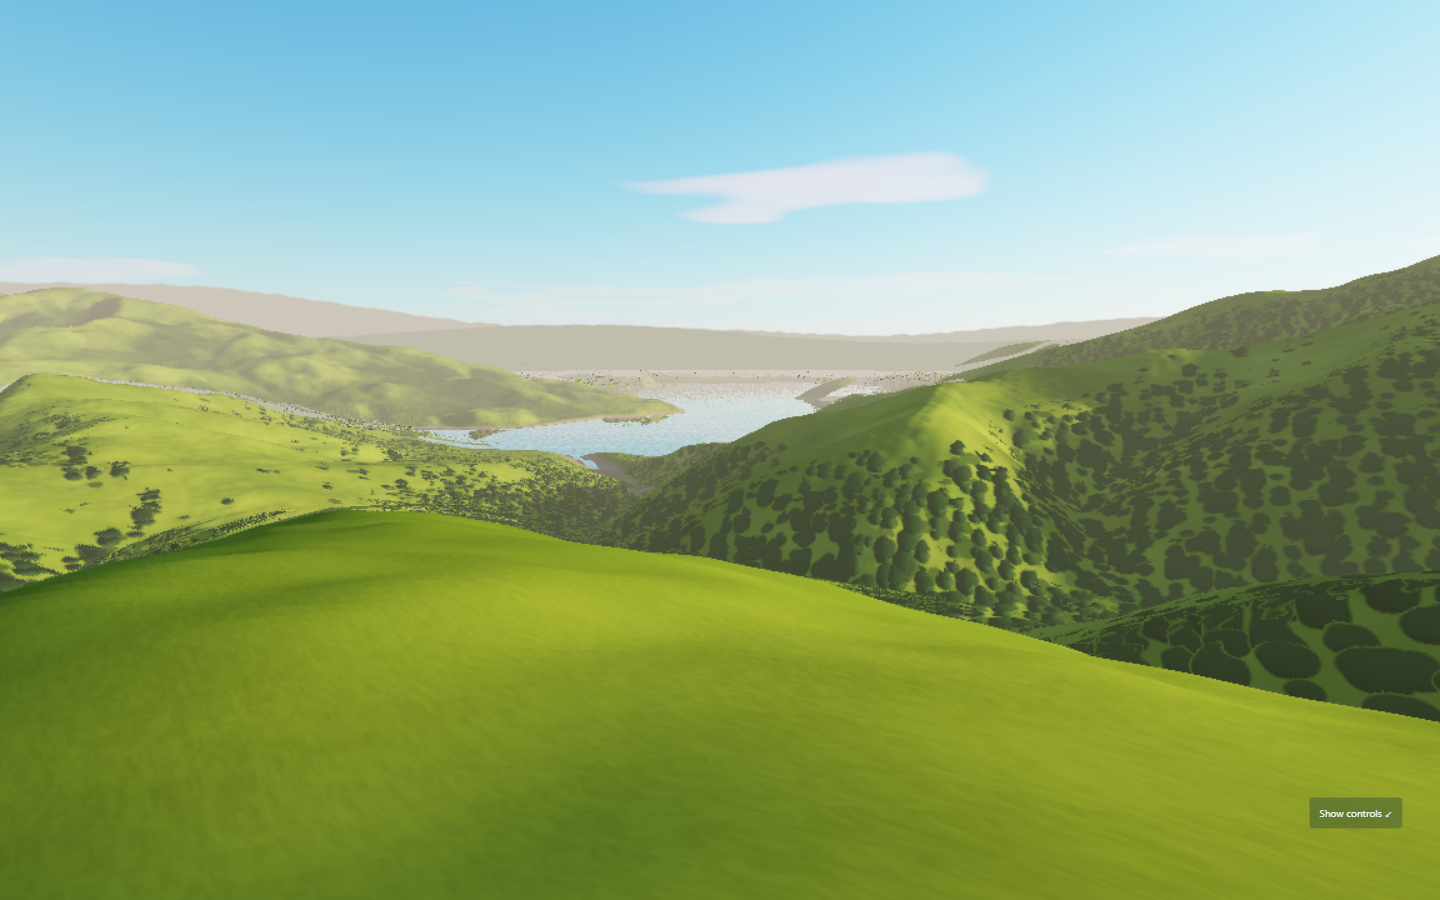
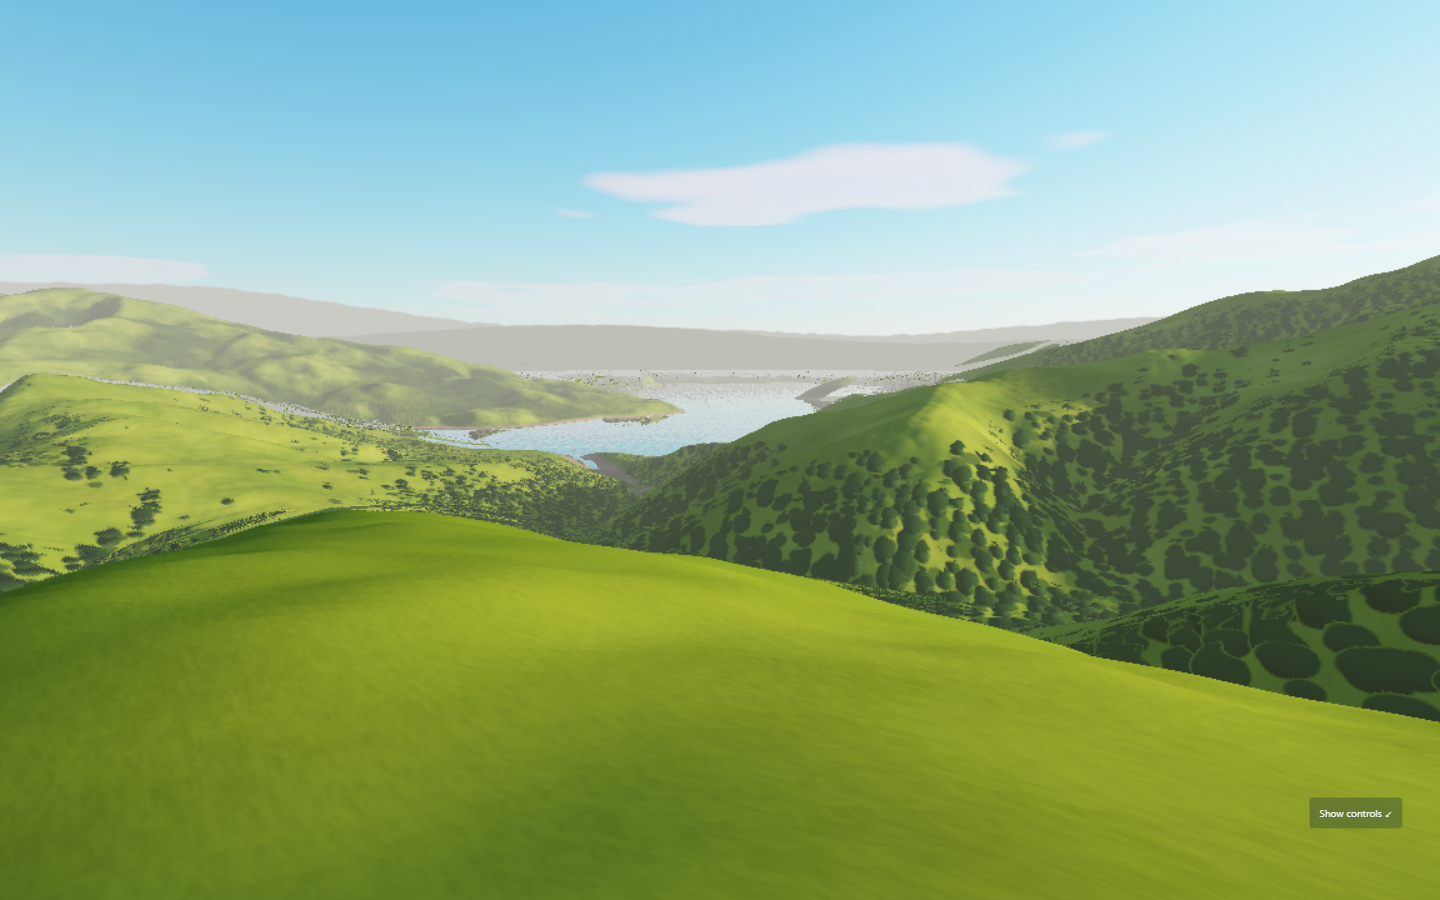
Pick the light: presets on the explore page and in the journey's live view

Changed region(s): [[0.5312, 0.1556, 0.7188, 0.2489], [0.4062, 0.1867, 0.5312, 0.2489]]

diff --git a/site/journey.js b/site/journey.js
@@ -104,12 +104,14 @@ function enterLive() {
   frame.src =
     `./renderer/explore.html?reservoir=${encodeURIComponent(stop.id)}&embed=1&pose=` +
     [pose.x, pose.y, pose.z, pose.yaw, pose.pitch].map((v) => v.toFixed(3)).join(",") +
-    (forcedQuality ? `&quality=${encodeURIComponent(forcedQuality)}` : "");
+    (forcedQuality ? `&quality=${encodeURIComponent(forcedQuality)}` : "") +
+    `&preset=${encodeURIComponent($("livePreset").value)}`;
   state.live = { id: stop.id, pose, frameTimes: [], firstFrame: false };
   $("stage").append(frame);
   video.pause();
   $("explore").textContent = "Back to video";
   $("slowNotice").hidden = true;
+  $("livePreset").hidden = false;
 }
 
 function leaveLive() {
@@ -118,6 +120,7 @@ function leaveLive() {
   state.live = null;
   $("stage").classList.remove("live");
   $("slowNotice").hidden = true;
+  $("livePreset").hidden = true;
   $("explore").textContent = "Explore in 3D";
   $("flyover").play().catch(() => {});
 }
@@ -163,6 +166,12 @@ $("prev").onclick = () => show(state.index - 1);
 $("next").onclick = () => show(state.index + 1);
 $("explore").onclick = () => (state.live ? leaveLive() : enterLive());
 $("slowBack").onclick = leaveLive;
+$("livePreset").value = new URLSearchParams(location.search).get("preset") || "golden";
+$("livePreset").onchange = () =>
+  $("liveFrame")?.contentWindow.postMessage(
+    { type: "waterscape:preset", name: $("livePreset").value },
+    location.origin,
+  );
 addEventListener("keydown", (e) => {
   if (e.key === "ArrowRight" || e.key === "PageDown") show(state.index + 1);
   if (e.key === "ArrowLeft" || e.key === "PageUp") show(state.index - 1);

diff --git a/renderer/explore.js b/renderer/explore.js
@@ -187,6 +187,12 @@ function applyPreset(name) {
   $("exposure").dispatchEvent(new Event("input"));
   diag.preset = state.preset;
 }
+// The journey's live view picks presets from outside the iframe.
+addEventListener("message", (e) => {
+  if (e.origin !== location.origin || e.data?.type !== "waterscape:preset" || !lightBuf) return;
+  applyPreset(e.data.name);
+  $("preset").value = state.preset;
+});
 function tipDismissed() {
   try {
     return localStorage.getItem("waterscape.gpuTipDismissed") === "1";
@@ -768,6 +774,10 @@ try {
   landProfile = await (await fetch(new URL("land.json", bundleBase))).json();
   lightBuf = rt.createBuffer(24 * 4);
   applyPreset(q.get("preset"));
+  // Only the presets this reservoir offers, default selected.
+  for (const opt of [...$("preset").options]) opt.hidden = !landProfile.presets.includes(opt.value);
+  $("preset").value = state.preset;
+  $("preset").onchange = () => applyPreset($("preset").value);
   diag.location = terrain.meta.name;
   diag.coordinates = terrain.latLon(0, 0);
   document.title = `${terrain.meta.name} · Waterscape`;

diff --git a/index.html b/index.html
@@ -30,6 +30,7 @@
       <div class="nav">
         <button id="prev" aria-label="Previous stop">←</button
         ><button id="explore" hidden>Explore in 3D</button
+        ><select id="livePreset" hidden aria-label="Light"><option value="morning">Morning</option><option value="midday">Midday</option><option value="golden" selected>Golden hour</option></select
         ><button id="next">Next stop →</button>
       </div>
       <p id="slowNotice" hidden>

diff --git a/renderer/explore.html b/renderer/explore.html
@@ -78,6 +78,12 @@
             <option value="1">Caustics</option>
             <option value="2">Normals</option>
           </select></label
+        ><label
+          >Light<select id="preset">
+            <option value="morning">Morning</option>
+            <option value="midday">Midday</option>
+            <option value="golden">Golden hour</option>
+          </select></label
         >
       </div>
       <div class="checks">

diff --git a/site/journey.css b/site/journey.css
@@ -192,3 +192,9 @@ button:disabled {
   margin-left: 6px;
   padding: 4px 8px;
 }
+
+#livePreset {
+  margin-left: 6px;
+  font: inherit;
+  padding: 6px 8px;
+}
